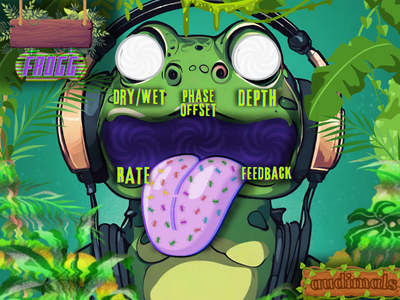
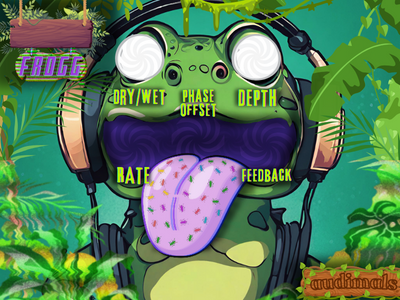
Release build.

Changed region(s): [[0.03, 0.18, 0.21, 0.27], [0.6, 0.54, 0.75, 0.63]]

diff --git a/Source/PluginEditor.cpp b/Source/PluginEditor.cpp
@@ -38,7 +38,7 @@ FROGGAudioProcessorEditor::FROGGAudioProcessorEditor (FROGGAudioProcessor& p)
 
     // Depth Slider set up:
     AudioParameterFloat* depthParameter = (juce::AudioParameterFloat*)params.getUnchecked(1);
-    mDepthSlider.setBounds(230, 30, 60, 60);
+    mDepthSlider.setBounds(227, 30, 60, 60);
     mDepthSlider.setSliderStyle(juce::Slider::SliderStyle::RotaryVerticalDrag);
     mDepthSlider.setTextBoxStyle(juce::Slider::TextEntryBoxPosition::NoTextBox, true, 0, 0);
     mDepthSlider.setRange(depthParameter->range.start, depthParameter->range.end);
@@ -104,11 +104,11 @@ FROGGAudioProcessorEditor::FROGGAudioProcessorEditor (FROGGAudioProcessor& p)
     mType.setSelectedItemIndex(*typeParameter);
 
     // Slider colors:
-    mDryWetSlider.setColour(juce::Slider::rotarySliderFillColourId, juce::Colours::whitesmoke);
+    mDryWetSlider.setColour(juce::Slider::rotarySliderFillColourId, juce::Colours::ghostwhite);
     mDryWetSlider.setColour(juce::Slider::rotarySliderOutlineColourId, juce::Colours::whitesmoke);
     mDryWetSlider.setColour(juce::Slider::thumbColourId, juce::Colours::darkslategrey);
 
-    mDepthSlider.setColour(juce::Slider::rotarySliderFillColourId, juce::Colours::whitesmoke);
+    mDepthSlider.setColour(juce::Slider::rotarySliderFillColourId, juce::Colours::ghostwhite);
     mDepthSlider.setColour(juce::Slider::rotarySliderOutlineColourId, juce::Colours::whitesmoke);
     mDepthSlider.setColour(juce::Slider::thumbColourId, juce::Colours::darkslategrey);
 
